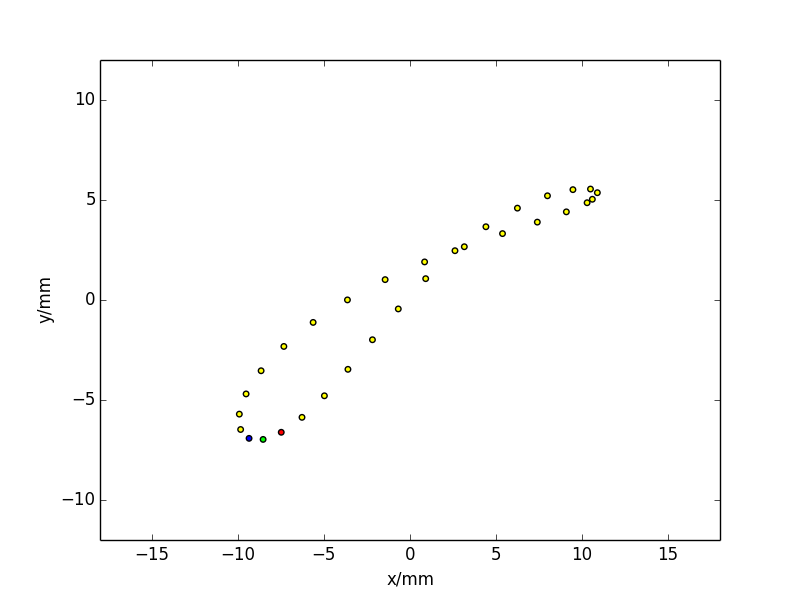
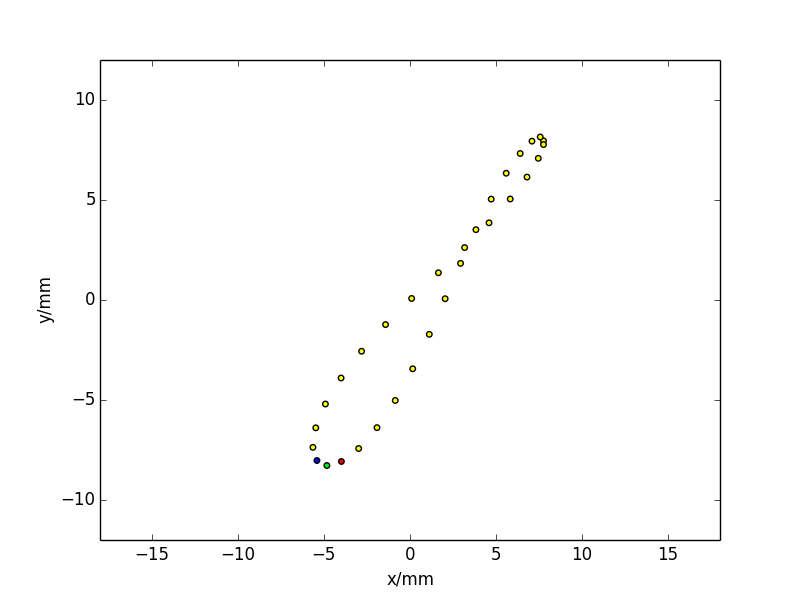
fix projection

diff --git a/analemma.py b/analemma.py
@@ -4,6 +4,7 @@ import pytz
 import urllib2
 import json
 import argparse
+import sys
 import math
 import numpy as np
 import matplotlib.pyplot as plt
@@ -41,43 +42,44 @@ def getSolarPositions(args):
     return azimuth_list,zenith_list
 
 # Coordinate System Transforms
-def worldAzimuthZenith2WorldPoint(azimuth, zenith):
+def worldAzimuthZenith2WorldPoint(sunAzimuth, sunZenith):
+    if sunAzimuth < 0 or sunAzimuth > 360 or sunZenith < 0 or sunZenith > 180:
+        print "worldAzimuthZenith2WorldPoint wrong argument %s %s" % (sunAzimuth, sunZenith)
+        sys.exit(-1)
     sunDistanceInMM = 1.496*math.pow(10, 14) # in mm
-    xWorld = sunDistanceInMM*math.sin(zenith/180.0*math.pi)*math.sin(azimuth/180.0*math.pi)
-    yWorld = sunDistanceInMM*math.sin(zenith/180.0*math.pi)*math.cos(azimuth/180.0*math.pi)
-    zWorld = sunDistanceInMM*math.cos(zenith/180.0*math.pi)
-    return np.array([[xWorld],[yWorld],[zWorld]])
+    xWorld = sunDistanceInMM*math.sin(sunZenith/180.0*math.pi)*math.sin(sunAzimuth/180.0*math.pi)
+    yWorld = sunDistanceInMM*math.sin(sunZenith/180.0*math.pi)*math.cos(sunAzimuth/180.0*math.pi)
+    zWorld = sunDistanceInMM*math.cos(sunZenith/180.0*math.pi)
+    worldPoint = np.array([[xWorld],[yWorld],[zWorld]])
+    return worldPoint
 
-def worldPoint2ViewPoint(point, azimuth, pitch, roll):
-    Rx = np.array([[1,0,0], [0, math.cos(pitch/180.0*math.pi), -math.sin(pitch/180.0*math.pi)], [0, math.sin(pitch/180.0*math.pi), math.cos(pitch/180.0*math.pi)]])
-    Ry = np.array([[math.cos(roll/180.0*math.pi),0,math.sin(roll/180.0*math.pi)], [0,1,0], [-math.sin(roll/180.0*math.pi),0,math.cos(roll/180.0*math.pi)]])
-    Rz = np.array([[math.cos(azimuth/180.0*math.pi), -math.sin(azimuth/180.0*math.pi), 0], [math.sin(azimuth/180.0*math.pi), math.cos(azimuth/180.0*math.pi), 0], [0,0,1]])
+def worldPoint2ViewPoint(worldPoint, cameraAzimuth, cameraPitch, cameraRoll):
+    Rx = np.array([[1,0,0], [0, math.cos(cameraPitch/180.0*math.pi), -math.sin(cameraPitch/180.0*math.pi)], [0, math.sin(cameraPitch/180.0*math.pi), math.cos(cameraPitch/180.0*math.pi)]])
+    Ry = np.array([[math.cos(cameraRoll/180.0*math.pi),0,math.sin(cameraRoll/180.0*math.pi)], [0,1,0], [-math.sin(cameraRoll/180.0*math.pi),0,math.cos(cameraRoll/180.0*math.pi)]])
+    Rz = np.array([[math.cos(cameraAzimuth/180.0*math.pi), -math.sin(cameraAzimuth/180.0*math.pi), 0], [math.sin(cameraAzimuth/180.0*math.pi), math.cos(cameraAzimuth/180.0*math.pi), 0], [0,0,1]])
     matrix = np.dot(Rx, np.dot(Ry, Rz))
-    return np.dot(matrix, point)
+    viewPoint = np.dot(matrix, worldPoint)
+    return viewPoint
 
-def viewPoint2ViewAzimuthZenith(point):
-    x = point[0,0]
-    y = point[1,0]
-    z = point[2,0]
-    distance = math.sqrt(x*x + y*y + z*z)
-    zenith = math.acos(z/distance)/math.pi*180.0
-    azimuth = math.atan2(x, y)/math.pi*180.0
-    if azimuth < 0:
-        azimuth += 360
-    return azimuth, zenith
-
-def viewAzimuthZenith2Projection(azimuth, zenith, args):
-    if args.facing_back == True and (azimuth >= 90 and azimuth <= 270):
+def viewAzimuthZenith2Projection(viewPoint, args):
+    x = viewPoint[0,0]
+    y = viewPoint[1,0]
+    z = viewPoint[2,0]
+    if args.facing_back == True:
+        if z >= 0.0:
+            return None
+        xInMM = args.focal_length*x/(-z)
+        yInMM = args.focal_length*y/(-z)
+    else:
+        if z <= 0.0:
+            return None
+        xInMM = args.focal_length*x/z
+        yInMM = args.focal_length*y/z
+    if xInMM > args.sensor_width/2 or xInMM < -args.sensor_width/2:
         return None
-    if args.facing_back == False and (azimuth <= 90 or azimuth >= 270):
+    if yInMM > args.sensor_height/2 or yInMM < -args.sensor_height/2:
         return None
-    x = args.focal_length*math.tan(azimuth/180.0*math.pi)
-    y = args.focal_length*math.tan((90-zenith)/180.0*math.pi)
-    if x > args.sensor_width/2 or x < -args.sensor_width/2:
-        return None
-    if y > args.sensor_height/2 or y < -args.sensor_height/2:
-        return None
-    return x,y
+    return xInMM,yInMM
 
 # end of Coordinate System Transforms
 
@@ -89,8 +91,8 @@ def getPoints(args):
     for i in range(len(azimuth_list)):
         worldPoint = worldAzimuthZenith2WorldPoint(azimuth_list[i], zenith_list[i])
         viewPoint = worldPoint2ViewPoint(worldPoint, args.camera_azimuth, args.camera_pitch, args.camera_roll)
-        viewAzimuth, viewZenith = viewPoint2ViewAzimuthZenith(viewPoint)
-        ret = viewAzimuthZenith2Projection(viewAzimuth, viewZenith, args)
+        # viewAzimuth, viewZenith = viewPoint2ViewAzimuthZenith(viewPoint)
+        ret = viewAzimuthZenith2Projection(viewPoint, args)
         if not ret:
             continue;
         if i == args.npoints_before - 1:
@@ -144,16 +146,21 @@ def main():
 
     args = parser.parse_args()
     if args.camera_azimuth == -1000 or args.camera_pitch == -1000:
-        azimuth_list,zenith_list = getSolarPositions(args)
-        default_azimuth = sum(azimuth_list)/len(azimuth_list)
-        default_zenith = sum(zenith_list)/len(zenith_list)
+        marchDateTime = args.datetime - timedelta(days = (args.datetime.month - 3)*30)
+        default_azimuth, default_zenith = sunpos(marchDateTime, latitude=args.latitude, longitude=args.longitude, elevation=args.elevation)[:2]
         if args.camera_azimuth == -1000:
-            args.camera_azimuth = default_azimuth
-            if args.camera_azimuth > 180.0:
-                args.camera_azimuth -= 360.0
+            if args.facing_back == True:
+                args.camera_azimuth = default_azimuth
+                if args.camera_azimuth > 180.0:
+                    args.camera_azimuth -= 360.0
+            else:
+                args.camera_azimuth = default_azimuth - 180.0
             print "default camera_azimuth is %f" % args.camera_azimuth
         if args.camera_pitch == -1000:
-            args.camera_pitch = default_zenith - 90.0
+            if args.facing_back == True:
+                args.camera_pitch = default_zenith - 180.0
+            else:
+                args.camera_pitch = -default_zenith
             print "default camera_pitch is %f" % args.camera_pitch
     xs, ys, colors = getPoints(args)
     plot(args, xs, ys, colors)

diff --git a/README.md b/README.md
@@ -30,7 +30,7 @@ python analemma.py
 
 ## Example2
 ```
-python analemma.py --datetime '2019-12-4 7:0:0' --latitude 30.0 --longitude 120.0 --focal_length=16 --camera_azimuth 250 --camera_pitch -30
+python analemma.py --datetime '2019-12-4 7:0:0' --latitude 30.0 --longitude 120.0 --focal_length=16 --camera_azimuth -120 --camera_pitch -120
 ```
 ![alt example12](https://raw.githubusercontent.com/weishuyin/analemma/master/img/example2.png "example2")
 
